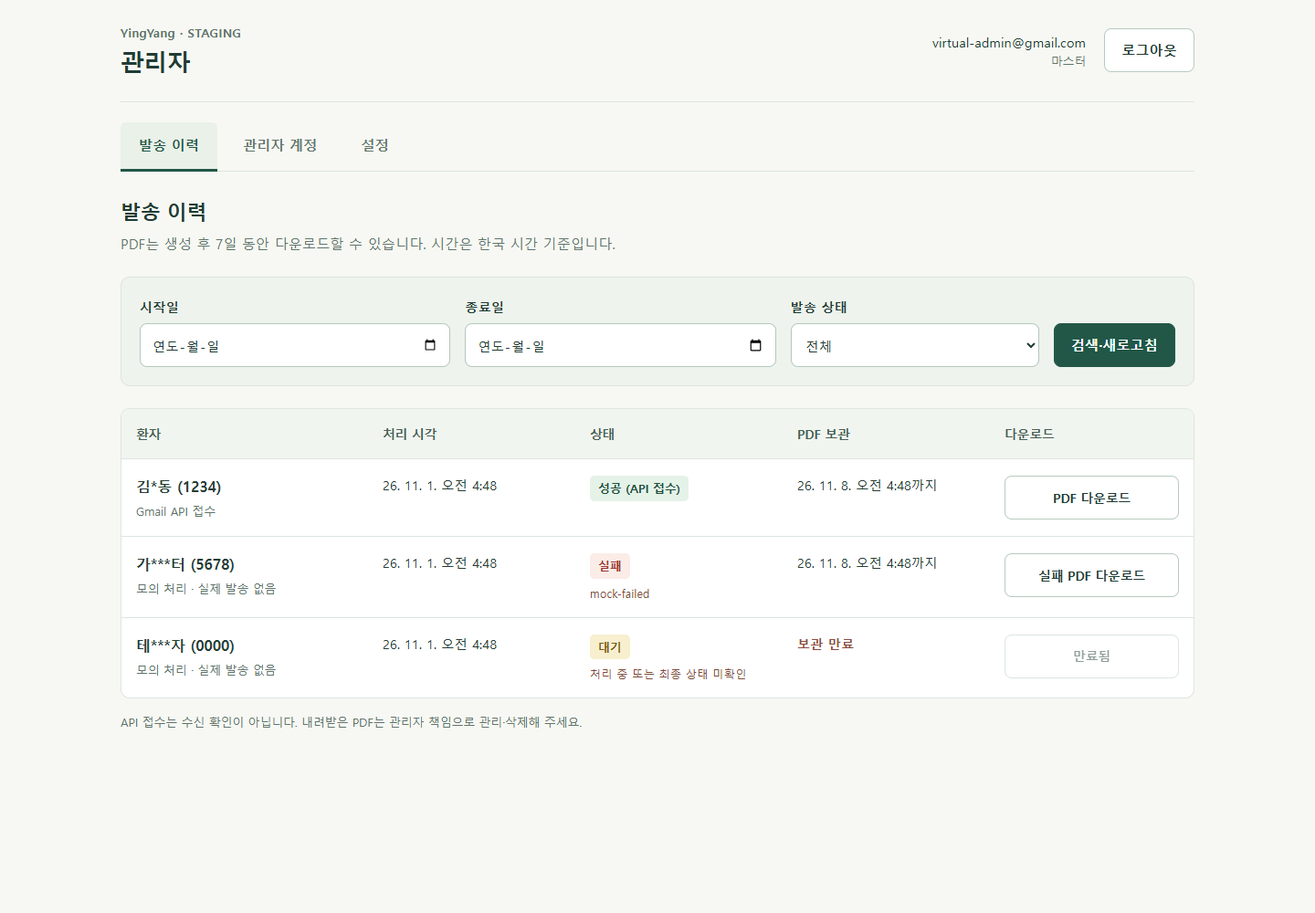
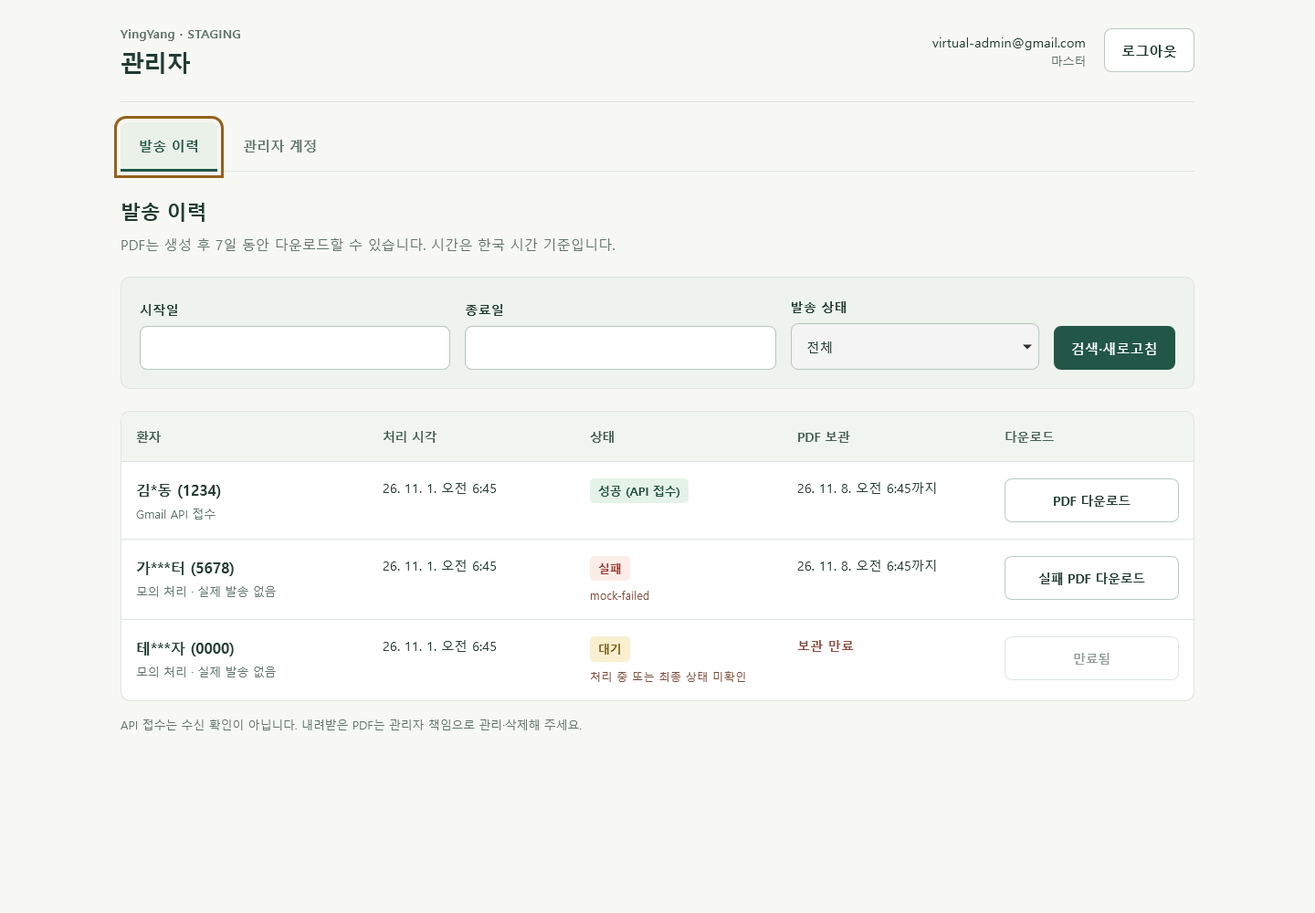
refactor: use Google-only administrator authentication (#7)

diff --git a/src/staging/AdminPortal.tsx b/src/staging/AdminPortal.tsx
@@ -1,14 +1,14 @@
 import { useCallback, useEffect, useRef, useState, type FormEvent, type KeyboardEvent } from 'react'
-import { GoogleAuthProvider, onAuthStateChanged, reauthenticateWithPopup, signInWithPopup, signInWithCustomToken, signOut, type Auth } from 'firebase/auth'
+import { GoogleAuthProvider, onAuthStateChanged, reauthenticateWithPopup, signInWithPopup, signOut, type Auth } from 'firebase/auth'
 import { httpsCallable, type Functions } from 'firebase/functions'
 import { AdminReports } from './AdminReports'
 import type { AdminQuery, AdminPage, AdminDownload } from './admin-contracts'
 import './admin.css'
 
-type Session = { role: 'none' | 'admin' | 'master'; local: boolean; mustChange: boolean; canBootstrap: boolean }
+type Session = { role: 'none' | 'admin' | 'master' }
 type Account = { email: string; active: boolean; bound: boolean }
-type Tab = 'reports' | 'accounts' | 'settings'
-const empty: Session = { role: 'none', local: false, mustChange: false, canBootstrap: false }
+type Tab = 'reports' | 'accounts'
+const empty: Session = { role: 'none' }
 function errorCode(error: unknown) {
  const code = error && typeof error === 'object' && 'code' in error ? String(error.code) : ''
  return /^(auth|functions)\/[a-z-]+$/.test(code) ? code : ''
@@ -17,9 +17,7 @@ export function AdminPortal({ auth, functions }: { auth: Auth; functions: Functi
  const [session, setSession] = useState(empty), [signed, setSigned] = useState(false), [checking, setChecking] = useState(true)
  const [account, setAccount] = useState(''), [busy, setBusy] = useState(false), [message, setMessage] = useState('')
  const [tab, setTab] = useState<Tab>('reports'), [needsReauth, setNeedsReauth] = useState(false)
- const [password, setPassword] = useState(''), [current, setCurrent] = useState(''), [next, setNext] = useState(''), [confirmation, setConfirmation] = useState('')
- const [email, setEmail] = useState(''), [temporary, setTemporary] = useState(''), [accounts, setAccounts] = useState<Account[]>([])
- const [resetReady, setResetReady] = useState(false)
+ const [email, setEmail] = useState(''), [accounts, setAccounts] = useState<Account[]>([])
  const pending = useRef<(() => Promise<void>) | null>(null), working = useRef(false)
  const call = useCallback(async <T,>(data: Record<string, unknown>) => (await httpsCallable<Record<string, unknown>, T>(functions, 'adminIdentity')(data)).data, [functions])
  useEffect(() => {
@@ -53,32 +51,15 @@ export function AdminPortal({ auth, functions }: { auth: Auth; functions: Functi
  const download = useCallback(async (id: string) => (await httpsCallable<{ id: string }, AdminDownload>(functions, 'downloadAdminReport')({ id })).data, [functions])
  const loadAccounts = useCallback(async () => { const result = await call<{ accounts: Account[] }>({ action: 'accounts', operation: 'list' }); setAccounts(result.accounts) }, [call])
  useEffect(() => {
-  if (tab === 'accounts' && session.role === 'master' && !session.mustChange) void run(loadAccounts, true)
- }, [tab, session.role, session.mustChange, loadAccounts])
- async function localReauth() {
-  const result = await call<{ token: string }>({ action: 'reauthenticate', currentPassword: current })
-  setCurrent(''); await signInWithCustomToken(auth, result.token)
- }
+  if (tab === 'accounts' && session.role === 'master') void run(loadAccounts, true)
+ }, [tab, session.role, loadAccounts])
  async function verifyAgain(event: FormEvent) {
   event.preventDefault()
   await run(async () => {
-   if (session.local) await localReauth()
-   else await reauthenticateWithPopup(auth.currentUser!, new GoogleAuthProvider())
+   await reauthenticateWithPopup(auth.currentUser!, new GoogleAuthProvider())
    setNeedsReauth(false)
    const work = pending.current; pending.current = null
    if (work) await work()
-  })
- }
- async function login(event: FormEvent) {
-  event.preventDefault()
-  await run(async () => { const result = await call<{ token: string }>({ action: 'login', username: 'admin', password }); setPassword(''); await signInWithCustomToken(auth, result.token) })
- }
- async function change(event: FormEvent) {
-  event.preventDefault()
-  if (next !== confirmation) { setMessage('새 비밀번호가 서로 다릅니다.'); return }
-  await run(async () => {
-   await localReauth(); await call({ action: 'change-password', newPassword: next })
-   setNext(''); setConfirmation(''); await signOut(auth); setMessage('비밀번호를 변경했습니다. 새 비밀번호로 로그인하세요.')
   })
  }
  async function manage(operation: string, fields: Record<string, unknown> = {}) {
@@ -86,26 +67,22 @@ export function AdminPortal({ auth, functions }: { auth: Auth; functions: Functi
   await loadAccounts()
  }
  function navigate(value: Tab) { setTab(value); setMessage(''); setNeedsReauth(false); pending.current = null }
- const tabs: { id: Tab; label: string }[] = [{ id: 'reports', label: '발송 이력' }, ...(session.role === 'master' ? [{ id: 'accounts' as const, label: '관리자 계정' }, { id: 'settings' as const, label: '설정' }] : [])]
+ const tabs: { id: Tab; label: string }[] = [{ id: 'reports', label: '발송 이력' }, ...(session.role === 'master' ? [{ id: 'accounts' as const, label: '관리자 계정' }] : [])]
  function tabKey(event: KeyboardEvent<HTMLButtonElement>, index: number) {
   const nextIndex = event.key === 'ArrowRight' ? (index + 1) % tabs.length : event.key === 'ArrowLeft' ? (index + tabs.length - 1) % tabs.length : event.key === 'Home' ? 0 : event.key === 'End' ? tabs.length - 1 : -1
   if (nextIndex < 0) return
   event.preventDefault(); navigate(tabs[nextIndex].id); document.getElementById('admin-tab-' + tabs[nextIndex].id)?.focus()
  }
  const notice = message && <p className="admin-notice" role="status">{message}</p>
- const localLogin = <form onSubmit={login} className="admin-form"><label>마스터 ID<input value="admin" readOnly autoComplete="username" /></label><label>마스터 비밀번호<input type="password" autoComplete="current-password" required maxLength={128} value={password} onChange={e => setPassword(e.target.value)} /></label><button disabled={busy}>마스터 로그인</button></form>
- const passwordForm = <form onSubmit={change} className="admin-form"><label>현재 비밀번호<input type="password" autoComplete="current-password" required value={current} onChange={e => setCurrent(e.target.value)} /></label><label>새 비밀번호 (12자 이상)<input type="password" autoComplete="new-password" minLength={12} maxLength={128} required value={next} onChange={e => setNext(e.target.value)} /></label><label>새 비밀번호 확인<input type="password" autoComplete="new-password" required value={confirmation} onChange={e => setConfirmation(e.target.value)} /></label><button disabled={busy}>비밀번호 변경</button></form>
- const logout = <button className="admin-button-secondary" disabled={busy} onClick={() => void run(async () => { await signOut(auth); setPassword(''); setCurrent(''); setNext(''); setConfirmation(''); setTemporary(''); setResetReady(false) })}>로그아웃</button>
- const top = <header className="admin-top"><div><span className="admin-kicker">YingYang · STAGING</span><h1>관리자</h1></div>{signed && <div className="admin-account"><div><span className="admin-account-name">{session.local ? '별도 마스터' : account}</span><span className="admin-role">{session.role === 'master' ? '마스터' : session.role === 'admin' ? '일반 관리자' : '권한 확인'}</span></div>{logout}</div>}</header>
+ const logout = <button className="admin-button-secondary" disabled={busy} onClick={() => void run(async () => { await signOut(auth) })}>로그아웃</button>
+ const top = <header className="admin-top"><div><span className="admin-kicker">YingYang · STAGING</span><h1>관리자</h1></div>{signed && <div className="admin-account"><div><span className="admin-account-name">{account}</span><span className="admin-role">{session.role === 'master' ? '마스터' : session.role === 'admin' ? '일반 관리자' : '권한 확인'}</span></div>{logout}</div>}</header>
  if (checking) return <div className="admin-app">{top}<main className="admin-focus"><p role="status">로그인 상태를 확인하고 있습니다…</p></main></div>
- if (!signed) return <div className="admin-app">{top}<main className="admin-focus"><div className="admin-login"><span className="admin-kicker">관리자 전용</span><h2>로그인</h2><p>승인된 Google 계정으로 로그인하세요.</p>{notice}<button className="admin-google" disabled={busy} onClick={() => void run(async () => { await signInWithPopup(auth, new GoogleAuthProvider()) })}>Google로 로그인</button><details><summary>별도 마스터 ID 로그인</summary>{localLogin}</details></div></main></div>
- if (session.mustChange) return <div className="admin-app">{top}<main className="admin-focus"><div className="admin-login"><span className="admin-kicker">첫 로그인 · 필수</span><h2>새 비밀번호 설정</h2><p role="alert">비밀번호를 변경해야 관리자 기능을 사용할 수 있습니다.</p>{notice}{passwordForm}</div></main></div>
+ if (!signed) return <div className="admin-app">{top}<main className="admin-focus"><div className="admin-login"><span className="admin-kicker">관리자 전용</span><h2>로그인</h2><p>승인된 Google 계정으로 로그인하세요.</p>{notice}<button className="admin-google" disabled={busy} onClick={() => void run(async () => { await signInWithPopup(auth, new GoogleAuthProvider()) })}>Google로 로그인</button></div></main></div>
  if (session.role === 'none') return <div className="admin-app">{top}<main className="admin-focus"><div className="admin-login"><h2>관리자 승인 대기</h2><p>현재 계정은 승인된 관리자가 아닙니다. 마스터에게 승인을 요청하세요.</p>{notice}<button disabled={busy} onClick={() => void run(async () => setSession(await call<Session>({ action: 'session' })))}>승인 상태 새로고침</button></div></main></div>
  return <div className="admin-app">{top}<nav className="admin-tabs" aria-label="관리자 메뉴" role="tablist">{tabs.map((item, index) => <button key={item.id} id={'admin-tab-' + item.id} role="tab" aria-selected={tab === item.id} aria-controls={'admin-panel-' + item.id} tabIndex={tab === item.id ? 0 : -1} onClick={() => navigate(item.id)} onKeyDown={e => tabKey(e, index)}>{item.label}</button>)}</nav><main className="admin-content">
   {notice}
-  {needsReauth && <form onSubmit={verifyAgain} className="admin-reauth" aria-label="계정 관리 본인 확인"><div><h2>본인 확인</h2><p>계정 관리 작업을 계속하려면 확인해 주세요.</p></div>{session.local && <label>현재 비밀번호<input type="password" autoComplete="current-password" required value={current} onChange={e => setCurrent(e.target.value)} /></label>}<button disabled={busy}>{session.local ? '본인 확인' : 'Google로 본인 확인'}</button></form>}
+  {needsReauth && <form onSubmit={verifyAgain} className="admin-reauth" aria-label="계정 관리 본인 확인"><div><h2>본인 확인</h2><p>계정 관리 작업을 계속하려면 확인해 주세요.</p></div><button disabled={busy}>Google로 본인 확인</button></form>}
   <section role="tabpanel" id="admin-panel-reports" aria-labelledby="admin-tab-reports" hidden={tab !== 'reports'} tabIndex={0}><AdminReports list={list} download={download} /></section>
-  {session.role === 'master' && <><section role="tabpanel" id="admin-panel-accounts" aria-labelledby="admin-tab-accounts" hidden={tab !== 'accounts'} tabIndex={0}><div className="admin-section-title"><h2>관리자 계정</h2><p>승인된 관리자는 발송 이력과 PDF를 확인할 수 있습니다.</p></div><form className="admin-add" onSubmit={e => { e.preventDefault(); void run(async () => { await manage('approve', { email: email.trim() }); setEmail('') }, true) }}><label>승인할 Gmail<input type="email" placeholder="example@gmail.com" required value={email} onChange={e => setEmail(e.target.value)} /></label><button disabled={busy || needsReauth}>관리자 추가</button></form><ul className="admin-member-list" aria-label="승인된 관리자">{accounts.map(item => <li key={item.email}><div><strong>{item.email}</strong><span className={'admin-state ' + (item.active ? 'state-success' : 'state-pending')}>{item.active ? '승인됨' : '권한 회수됨'}</span></div>{item.active && <button className="admin-button-secondary" disabled={busy || needsReauth} onClick={() => void run(async () => { await manage('revoke', { email: item.email }) }, true)} aria-label={item.email + ' 권한 회수'}>권한 회수</button>}</li>)}</ul>{!accounts.length && !busy && !needsReauth && <p className="admin-empty">추가된 관리자가 없습니다.</p>}</section>
-  <section role="tabpanel" id="admin-panel-settings" aria-labelledby="admin-tab-settings" hidden={tab !== 'settings'} tabIndex={0}><div className="admin-settings"><h2>{session.local ? '마스터 비밀번호 변경' : '별도 마스터 비밀번호 초기화'}</h2>{session.local ? passwordForm : <><p>별도 ID 계정에만 적용됩니다. Google 계정은 변경되지 않습니다.</p><form className="admin-form" onSubmit={e => { e.preventDefault(); void run(async () => { await call({ action: 'accounts', operation: 'reset-local', temporaryPassword: temporary }); setTemporary(''); setResetReady(true); setMessage('초기화했습니다. 별도 마스터로 전환해 비밀번호를 변경하세요.') }, true) }}><label>일회용 임시 비밀번호<input type="password" autoComplete="new-password" minLength={5} maxLength={128} required value={temporary} onChange={e => setTemporary(e.target.value)} /></label><button disabled={busy || needsReauth}>별도 마스터 초기화</button></form>{resetReady && <details><summary>초기화한 마스터로 전환</summary>{localLogin}</details>}</>}</div></section></>}
+  {session.role === 'master' && <><section role="tabpanel" id="admin-panel-accounts" aria-labelledby="admin-tab-accounts" hidden={tab !== 'accounts'} tabIndex={0}><div className="admin-section-title"><h2>관리자 계정</h2><p>승인된 관리자는 발송 이력과 PDF를 확인할 수 있습니다.</p></div><form className="admin-add" onSubmit={e => { e.preventDefault(); void run(async () => { await manage('approve', { email: email.trim() }); setEmail('') }, true) }}><label>승인할 Gmail<input type="email" placeholder="example@gmail.com" required value={email} onChange={e => setEmail(e.target.value)} /></label><button disabled={busy || needsReauth}>관리자 추가</button></form><ul className="admin-member-list" aria-label="승인된 관리자">{accounts.map(item => <li key={item.email}><div><strong>{item.email}</strong><span className={'admin-state ' + (item.active ? 'state-success' : 'state-pending')}>{item.active ? '승인됨' : '권한 회수됨'}</span></div>{item.active && <button className="admin-button-secondary" disabled={busy || needsReauth} onClick={() => void run(async () => { await manage('revoke', { email: item.email }) }, true)} aria-label={item.email + ' 권한 회수'}>권한 회수</button>}</li>)}</ul>{!accounts.length && !busy && !needsReauth && <p className="admin-empty">추가된 관리자가 없습니다.</p>}</section></>}
  </main></div>
 }

diff --git a/functions/src/admin-identity.ts b/functions/src/admin-identity.ts
@@ -1,74 +1,43 @@
-import { randomBytes, randomUUID, scrypt as scryptCallback, timingSafeEqual, createHash, createHmac } from 'node:crypto'
-import { promisify } from 'node:util'
+import { randomUUID, createHash, createHmac } from 'node:crypto'
 import { runtimeToken } from './mail-state'
 export const identityBucket = 'yingyangtest-admin-identity-495270334718'
-const scrypt = promisify(scryptCallback)
 export type StoredIdentity = { value: unknown; generation: string }
 export interface IdentityStore { read(name: string): Promise<StoredIdentity | null>; write(name: string,value: unknown,generation: string): Promise<void>; list(prefix: string): Promise<unknown[]> }
 export class IdentityConflict extends Error {}
 export class IdentityError extends Error { constructor(public readonly code: 'permission-denied'|'failed-precondition'|'invalid-argument'|'resource-exhausted'|'unavailable') { super(code) } }
 export type IdentityContext = { project?: string; app?: boolean; uid?: string; provider?: string; email?: string; emailVerified?: boolean; authTime?: number; claims?: Record<string,unknown> }
 export type Role = 'master'|'admin'|'none'
-export type Session = {role:Role;local:boolean;mustChange:boolean;canBootstrap:boolean}
-export type Config = {googleEmail:string;googleUid?:string;localUid:string;setupOperatorUid:string}
-export type LocalAccount = {salt:string;hash:string;version:number;mustChange:boolean;bootstrapConsumed:boolean;resetOwnerUid:string;failures:number;lockedUntil:number;sessionId?:string;reauthNonce?:string;reauthAt?:number}
+export type Session = {role:Role}
+export type Config = {googleEmail:string;googleUid?:string}
 export type Member = {email:string;uid?:string;active:boolean;createdAt:number;updatedAt:number}
-export interface IdentityAdapter { sign(uid:string,claims:Record<string,unknown>):Promise<string>; revoke(uid:string):Promise<void>; ensureGoogleUser(email:string):Promise<string>; googleUser(uid:string):Promise<{email?:string;verified:boolean;google:boolean;disabled:boolean}> }
-export async function passwordHash(password:string,salt=randomBytes(16).toString('hex')) { const hash=await scrypt(password,salt,64) as Buffer;return {salt,hash:hash.toString('hex')} }
-async function matches(password:string,record:LocalAccount) { if(!/^[a-f0-9]{128}$/.test(record.hash)||!/^[a-f0-9]{32}$/.test(record.salt))throw new IdentityError('unavailable');const value=await passwordHash(password,record.salt);return timingSafeEqual(Buffer.from(value.hash,'hex'),Buffer.from(record.hash,'hex')) }
+export interface IdentityAdapter { revoke(uid:string):Promise<void>; ensureGoogleUser(email:string):Promise<string>; googleUser(uid:string):Promise<{email?:string;verified:boolean;google:boolean;disabled:boolean}> }
 function gmail(value:unknown):string { if(typeof value!=='string'||value.length>254||!/^[-a-zA-Z0-9._%+]+@gmail\.com$/.test(value.trim()))throw new IdentityError('invalid-argument');return value.trim().toLowerCase() }
 function body(raw:unknown,keys:string[]) { if(!raw||typeof raw!=='object'||Array.isArray(raw)||Object.keys(raw).sort().join(',')!==keys.sort().join(','))throw new IdentityError('invalid-argument');return raw as Record<string,unknown> }
-function password(value:unknown,min=1) { if(typeof value!=='string'||value.length<min||value.length>128)throw new IdentityError('invalid-argument');return value }
 const memberKey=(email:string)=>'members/'+createHash('sha256').update(email).digest('hex')+'.json'
 export class AdminIdentity {
  constructor(private store:IdentityStore,private adapter:IdentityAdapter,private key:string,private clock=Date.now){}
  private gate(c:IdentityContext){if(c.project!=='yingyangtest'||!c.app)throw new IdentityError('permission-denied')}
- private async config(){const r=await this.store.read('config.json'),v=r?.value as Config;if(!r||!v?.localUid||!v.setupOperatorUid||!v.googleEmail)throw new IdentityError('unavailable');return {value:v,generation:r.generation}}
- private async local(){const r=await this.store.read('local-master.json'),v=r?.value as LocalAccount;if(!r||!Number.isSafeInteger(v?.version)||v.version<1||typeof v.mustChange!=='boolean')throw new IdentityError('unavailable');return {value:v,generation:r.generation}}
+ private async config(){const r=await this.store.read('config.json'),v=r?.value as Config;if(!r||!v?.googleEmail)throw new IdentityError('unavailable');return {value:v,generation:r.generation}}
  private async audit(c:IdentityContext,action:string,outcome:string,email?:string){await this.store.write('audit/'+randomUUID()+'.json',{at:this.clock(),actor:c.uid?createHmac('sha256',this.key).update(c.uid).digest('hex'):'anonymous',action,outcome,...(email?{subject:createHmac('sha256',this.key).update(email).digest('hex')}:{})},'0')}
  private recent(c:IdentityContext){if(!Number.isSafeInteger(c.authTime)||this.clock()-c.authTime!*1000>300000||c.authTime!*1000>this.clock()+60000)throw new IdentityError('failed-precondition')}
  async session(c:IdentityContext):Promise<Session>{
-  this.gate(c);const cfg=await this.config();const none:Session={role:'none',local:false,mustChange:false,canBootstrap:c.uid===cfg.value.setupOperatorUid&&c.claims?.stagingTester===true}
+  this.gate(c);const cfg=await this.config();const none:Session={role:'none'}
   if(!c.uid)return none
-  if(c.provider==='custom'&&c.uid===cfg.value.localUid){const r=await this.local();if(c.claims?.localVersion!==r.value.version||typeof c.claims.localSession!=='string'||r.value.mustChange&&c.claims.localSession!==r.value.sessionId)throw new IdentityError('permission-denied');return {role:'master',local:true,mustChange:r.value.mustChange,canBootstrap:false}}
   if(c.provider!=='google.com'||c.emailVerified!==true||!c.email)return none
   const u=await this.adapter.googleUser(c.uid);if(u.disabled||!u.verified||!u.google||u.email?.toLowerCase()!==c.email.toLowerCase())throw new IdentityError('permission-denied')
   const email=gmail(c.email)
   if(email===cfg.value.googleEmail.toLowerCase()){
    if(cfg.value.googleUid&&cfg.value.googleUid!==c.uid)throw new IdentityError('permission-denied')
    if(!cfg.value.googleUid){await this.audit(c,'pin-google-master','requested');try{await this.store.write('config.json',{...cfg.value,googleUid:c.uid},cfg.generation)}catch(e){if(!(e instanceof IdentityConflict))throw e;const latest=await this.config();if(latest.value.googleUid!==c.uid)throw new IdentityError('permission-denied')}}
-   return {role:'master',local:false,mustChange:false,canBootstrap:false}
+   return {role:'master'}
   }
   const record=await this.store.read(memberKey(email)),m=record?.value as Member
   if(!record||!m?.active||m.email!==email)return none
   if(m.uid&&m.uid!==c.uid)throw new IdentityError('permission-denied')
   if(!m.uid){try{await this.store.write(memberKey(email),{...m,uid:c.uid,updatedAt:this.clock()},record.generation)}catch(e){if(!(e instanceof IdentityConflict))throw e;const latest=(await this.store.read(memberKey(email)))?.value as Member;if(!latest?.active||latest.uid!==c.uid)throw new IdentityError('permission-denied')}}
-  return {role:'admin',local:false,mustChange:false,canBootstrap:false}
+  return {role:'admin'}
  }
- async authorize(c:IdentityContext,master=false){const s=await this.session(c);if(s.role==='none'||master&&s.role!=='master')throw new IdentityError('permission-denied');if(s.mustChange)throw new IdentityError('failed-precondition');return s}
- async login(raw:unknown,c:IdentityContext){
-  this.gate(c);const d=body(raw,['username','password']),pass=password(d.password),cfg=await this.config(),r=await this.local()
-  if(d.username!=='admin')throw new IdentityError('permission-denied')
-  if(r.value.mustChange&&(c.uid!==r.value.resetOwnerUid||r.value.bootstrapConsumed))throw new IdentityError('permission-denied')
-  if(r.value.lockedUntil>this.clock())throw new IdentityError('resource-exhausted')
-  if(!await matches(pass,r.value)){const failures=r.value.failures+1;await this.store.write('local-master.json',{...r.value,failures,lockedUntil:failures>=5?this.clock()+900000:0},r.generation);await this.audit(c,'local-login','denied');throw new IdentityError('permission-denied')}
-  const sid=randomUUID(),next={...r.value,failures:0,lockedUntil:0,...(r.value.mustChange?{bootstrapConsumed:true,sessionId:sid}:{})}
-  await this.audit(c,'local-login','allowed');await this.store.write('local-master.json',next,r.generation)
-  const token=await this.adapter.sign(cfg.value.localUid,{localVersion:next.version,localSession:sid})
-  return {token,mustChange:next.mustChange}
- }
- async reauthenticate(raw:unknown,c:IdentityContext){
-  this.gate(c);const d=body(raw,['currentPassword']),s=await this.session(c);if(s.role!=='master'||!s.local)throw new IdentityError('permission-denied')
-  const r=await this.local();if(r.value.lockedUntil>this.clock())throw new IdentityError('resource-exhausted')
-  if(!await matches(password(d.currentPassword),r.value)){const failures=r.value.failures+1;await this.store.write('local-master.json',{...r.value,failures,lockedUntil:failures>=5?this.clock()+900000:0},r.generation);await this.audit(c,'local-reauth','denied');throw new IdentityError('permission-denied')}
-  const nonce=randomUUID(),now=this.clock();await this.audit(c,'local-reauth','allowed');await this.store.write('local-master.json',{...r.value,reauthNonce:nonce,reauthAt:now,failures:0,lockedUntil:0},r.generation)
-  return {token:await this.adapter.sign(c.uid!,{localVersion:r.value.version,localSession:c.claims!.localSession,localReauth:nonce})}
- }
- async changePassword(raw:unknown,c:IdentityContext){
-  this.gate(c);const d=body(raw,['newPassword']),pass=password(d.newPassword,12),s=await this.session(c);if(s.role!=='master'||!s.local)throw new IdentityError('permission-denied');this.recent(c)
-  const r=await this.local();if(!r.value.reauthNonce||r.value.reauthNonce!==c.claims?.localReauth||this.clock()-(r.value.reauthAt||0)>300000||await matches(pass,r.value))throw new IdentityError('failed-precondition')
-  const hash=await passwordHash(pass);await this.audit(c,'local-password-change','requested');await this.store.write('local-master.json',{...hash,version:r.value.version+1,mustChange:false,bootstrapConsumed:true,resetOwnerUid:'',failures:0,lockedUntil:0},r.generation);await this.adapter.revoke(c.uid!);await this.audit(c,'local-password-change','completed');return {relogin:true}
- }
+ async authorize(c:IdentityContext,master=false){const s=await this.session(c);if(s.role==='none'||master&&s.role!=='master')throw new IdentityError('permission-denied');return s}
  async accounts(raw:unknown,c:IdentityContext){
   await this.authorize(c,true);this.recent(c)
   const d=raw as Record<string,unknown>;if(!d||typeof d!=='object'||Array.isArray(d))throw new IdentityError('invalid-argument')
@@ -80,16 +49,12 @@ export class AdminIdentity {
    else{if(!prior)throw new IdentityError('invalid-argument');await this.store.write(name,{email,active:false,updatedAt:this.clock()},prior.generation);if(m.uid)await this.adapter.revoke(m.uid)}
    await this.audit(c,'account-'+d.action,'completed',email);return {ok:true}
   }
-  if(d.action==='reset-local'){
-   body(raw,['action','temporaryPassword']);const session=await this.session(c);if(session.local)throw new IdentityError('permission-denied')
-   const r=await this.local(),cfg=await this.config(),hash=await passwordHash(password(d.temporaryPassword,5));await this.audit(c,'local-reset','requested');await this.store.write('local-master.json',{...hash,version:r.value.version+1,mustChange:true,bootstrapConsumed:false,resetOwnerUid:c.uid!,failures:0,lockedUntil:0},r.generation);await this.adapter.revoke(cfg.value.localUid);await this.audit(c,'local-reset','completed');return {ok:true}
-  }
   throw new IdentityError('invalid-argument')
  }
 }
 export class GcsIdentityStore implements IdentityStore {
  constructor(private token=runtimeToken){}
- private url(name:string){if(!/^(config\.json|local-master\.json|members\/[a-f0-9]{64}\.json|audit\/[a-f0-9-]+\.json)$/.test(name))throw Error('Invalid identity path');return 'https://storage.googleapis.com/storage/v1/b/'+identityBucket+'/o/'+encodeURIComponent(name)}
+ private url(name:string){if(!/^(config\.json|members\/[a-f0-9]{64}\.json|audit\/[a-f0-9-]+\.json)$/.test(name))throw Error('Invalid identity path');return 'https://storage.googleapis.com/storage/v1/b/'+identityBucket+'/o/'+encodeURIComponent(name)}
  private async request(url:string,init:RequestInit={}){return fetch(url,{...init,headers:{authorization:'Bearer '+await this.token(),...init.headers},signal:AbortSignal.timeout(8000)})}
  async read(name:string){const r=await this.request(this.url(name)+'?alt=media');if(r.status===404)return null;if(!r.ok)throw Error('Identity read unavailable');const generation=r.headers.get('x-goog-generation');if(!generation)throw Error('Missing identity version');return {value:await r.json(),generation}}
  async write(name:string,value:unknown,generation:string){this.url(name);const r=await this.request('https://storage.googleapis.com/upload/storage/v1/b/'+identityBucket+'/o?uploadType=media&name='+encodeURIComponent(name)+'&ifGenerationMatch='+generation,{method:'POST',headers:{'content-type':'application/json'},body:JSON.stringify(value)});if(r.status===412)throw new IdentityConflict();if(!r.ok)throw Error('Identity write unavailable');await r.arrayBuffer()}

diff --git a/src/staging/AdminPortal.test.tsx b/src/staging/AdminPortal.test.tsx
@@ -30,6 +30,8 @@ it('signed out page has login only, no report or tabs', async () => {
  expect(screen.queryByText('최초 설정 담당자 인증')).toBeNull()
  expect(screen.queryByLabelText('설정 담당자 이메일')).toBeNull()
  expect(screen.queryByLabelText('설정 담당자 비밀번호')).toBeNull()
+ expect(document.querySelector('input[type=password]')).toBeNull()
+ expect(screen.queryByText('별도 마스터 ID 로그인')).toBeNull()
 })
 it('unapproved signed-in account shows approval state without duplicate login', async () => {
  show(); await screen.findByRole('heading', { name: '관리자 승인 대기' })
@@ -52,6 +54,8 @@ it('signed-in ordinary admin has only history tab, no login/password/account too
 })
 it('master tabs switch with arrows/Home/End and load accounts automatically', async () => {
  show({ role: 'master' }); await screen.findByText('synthetic report')
+ expect(screen.getAllByRole('tab').map(x=>x.textContent)).toEqual(['발송 이력','관리자 계정'])
+ expect(document.querySelector('input[type=password]')).toBeNull()
  const history = screen.getByRole('tab', { name: '발송 이력' })
  expect(history.getAttribute('aria-selected')).toBe('true')
  fireEvent.keyDown(history, { key: 'ArrowRight' })
@@ -59,7 +63,7 @@ it('master tabs switch with arrows/Home/End and load accounts automatically', as
  expect(document.activeElement).toBe(screen.getByRole('tab', { name: '관리자 계정' }))
  await vi.waitFor(() => expect(mocks.call).toHaveBeenCalledWith({ action: 'accounts', operation: 'list' }))
  fireEvent.keyDown(document.activeElement!, { key: 'End' })
- expect(screen.getByRole('heading', { name: '별도 마스터 비밀번호 초기화' })).toBeTruthy()
+ expect(screen.getByRole('tab', { name: '관리자 계정' }).getAttribute('aria-selected')).toBe('true')
  fireEvent.keyDown(document.activeElement!, { key: 'Home' })
  expect(history.getAttribute('aria-selected')).toBe('true')
  expect(screen.queryByRole('button', { name: 'Google로 로그인' })).toBeNull()
@@ -89,17 +93,6 @@ it('expired sensitive action offers contextual reauth, then retries the pending 
  await screen.findByText('추가된 관리자가 없습니다.')
  expect(mocks.reauth).toHaveBeenCalledTimes(1)
  expect(screen.queryByRole('form', { name: '계정 관리 본인 확인' })).toBeNull()
-})
-it('forced change is a focused screen with no history or tabs', async () => {
- show({ role: 'master', local: true, mustChange: true }); await screen.findByRole('alert')
- expect(screen.queryByText('synthetic report')).toBeNull(); expect(screen.queryByRole('tab')).toBeNull()
- expect(screen.queryByRole('button', { name: 'Google로 로그인' })).toBeNull()
- fireEvent.change(screen.getByLabelText('현재 비밀번호'), { target: { value: 'virtual-current' } })
- fireEvent.change(screen.getByLabelText('새 비밀번호 (12자 이상)'), { target: { value: 'virtual-new-password' } })
- fireEvent.change(screen.getByLabelText('새 비밀번호 확인'), { target: { value: 'different-password' } })
- fireEvent.click(screen.getByRole('button', { name: '비밀번호 변경' }))
- await screen.findByText('새 비밀번호가 서로 다릅니다.')
- expect(mocks.call.mock.calls.every(([x]) => x.action === 'session')).toBe(true)
 })
 it('unknown Google account and popup cancellation show short safe messages', async () => {
  mocks.signed = false; mocks.google.mockRejectedValueOnce({ code: 'auth/admin-restricted-operation', message: 'private-detail' }).mockRejectedValueOnce({ code: 'auth/popup-closed-by-user' })

diff --git a/functions/src/index.ts b/functions/src/index.ts
@@ -105,7 +105,6 @@ export const submitMockReport = onCall(callableOptions, async request => {
 const firebaseAdmin = getAuth(getApps()[0] || initializeApp({projectId:'yingyangtest'}))
 function identity() {
  return new AdminIdentity(new GcsIdentityStore(), {
-  sign: (uid,claims)=>firebaseAdmin.createCustomToken(uid,claims),
   revoke: uid=>firebaseAdmin.revokeRefreshTokens(uid),
   ensureGoogleUser: email=>provisionGoogleAdmin(firebaseAdmin,email),
   googleUser: async uid=>{const u=await firebaseAdmin.getUser(uid);return {email:u.email,verified:u.emailVerified,google:u.providerData.some(p=>p.providerId==='google.com'),disabled:u.disabled}},
@@ -126,9 +125,6 @@ export const adminIdentity = onCall(callableOptions,async request=>{
   if(!raw||typeof raw!=='object'||Array.isArray(raw)||typeof raw.action!=='string')throw new IdentityError('invalid-argument')
   const {action,...data}=raw,c=identityContext(request),service=identity()
   if(action==='session'&&Object.keys(data).length===0)return await service.session(c)
-  if(action==='login')return await service.login(data,c)
-  if(action==='reauthenticate')return await service.reauthenticate(data,c)
-  if(action==='change-password')return await service.changePassword(data,c)
   if(action==='accounts'){const {operation,...fields}=data;return await service.accounts({...fields,action:operation},c)}
   throw new IdentityError('invalid-argument')
  }catch(error){

diff --git a/docs/verification.md b/docs/verification.md
@@ -1,5 +1,15 @@
 # YingYang v1 검증 기록
 
+## 관리자 Google 전용 전환 — 2026-11-01
+
+- 사용자 승인으로 별도 마스터 ID·비밀번호·변경·초기화·커스텀 토큰 경로와 설정 탭을 제거했다. 고정 Google 웹마스터와 승인 Google 관리자만 서버 역할을 얻는다. 과거 로컬 토큰도 거부한다.
+- **UI69 + 배포 보호2 + 서버52 =123개 통과.** npm test, 일반 build, build:staging, functions:build, functions:test 성공. 폐기한 비밀번호 테스트는 Google 전용/레거시 경로 거부 검증으로 대체했다.
+- 기존 Google 웹마스터가 활성·검증·Google 연결·고정 UID 상태임을 확인한 뒤 Staging 별도 마스터 Auth 사용자와 비밀번호 해시를 삭제했다. 초기 담당자/로컬 UID 설정 및 불필요한 signBlob 역할 바인딩 제거. 승인 목록·Google 웹마스터는 유지했다.
+- 로컬 가상 역할로 Chrome/WebKit에서 로그인 전 비밀번호 필드0, 마스터2탭/일반1탭, 키보드 조작과320/390/768/820/1024/1440px 넘침 없음 확인. 공개 미리보기 이미지도 현재2탭으로 갱신.
+- 실제 Staging 관리자 로그인 페이지200, Chrome/WebKit에서 Google 버튼만 표시·비밀번호/접힌 별도 로그인 경로0 확인. Staging HTML/JS200·빌드 해시 일치·noindex/no-store 및 운영 HTML 기준 해시 일치 확인.
+- 실제 테스트 계정으로 Auth/App Check를 거치는 서버 검수는 App Check 헤더 미발급401 UNAUTHENTICATED로 중단됐다. 이번 변경 후 실제 Google 재로그인·로그/PDF 조회까지 자동 검증했다고 보고하지 않는다. 서버 Google 권한·승인/회수·삭제 API 거부는 자동 테스트 결과이다. 사용자는 앞서 실제 일반 Google 계정의 승인·사용·회수가 정상이라고 확인했다.
+- Staging Hosting/Functions만 배포. 운영 전환 중지·main 미변경·실제 메일0·발송 창 미개방 유지. 기존 검사 테스트 계정은 관리자와 별도이므로 유지했다.
+
 ## #7 관리자 UI 전면 정리 — 2026-11-01
 
 - 최신 요청 [6548234546](https://github.com/aeranixia/YingYang/issues/7#issuecomment-6548234546) 반영. 로그인 전·후·승인 대기·필수 비밀번호 변경 화면을 분리하고, 로그인 후에는 로그인 폼/중복 인증 안내가 나타나지 않는다.

diff --git a/docs/issue-7-admin-reports.md b/docs/issue-7-admin-reports.md
@@ -4,6 +4,14 @@
 
 ## 접근 방법
 
+### 최신 정책: Google 로그인으로 통일 — 2026-11-01
+
+사용자 최종 지시에 따라 마스터·일반 관리자 모두 Google 전용으로 통일했다. 아래 별도 마스터 비밀번호/초기화 관련 설명은 과거 이력이며 현재 사용하지 않는다. 로그인 화면의 ID/비밀번호 폼, 설정 탭, 변경·초기화 API, 해시 처리, 커스텀 토큰 발급 경로를 제거했다. 기존 커스텀/이메일 비밀번호 토큰은 관리자 역할을 얻지 못한다.
+
+고정 Google 웹마스터의 검증된 이메일·UID를 확인한 뒤 Staging의 별도 마스터 Auth 사용자와 local-master.json 해시를 삭제하고, config의 초기 담당자/별도 UID 항목을 제거했다. 불필요한 실행 계정 자기 자신에 대한 토큰 서명 역할 바인딩도 회수했다. 승인 관리자 목록·Google UID·감사/7일 PDF·메일 설정은 유지했다. 기존 검사 테스트 계정 로그인은 관리자 로그인이 아니며 별도로 유지한다.
+
+현재 마스터는 발송 이력/관리자 계정 2탭, 일반 관리자는 발송 이력 1탭이다. 계정 관리의 최근 본인 확인도 Google 재인증만 사용한다. 사용자는 실제 일반 Google 계정의 승인·사용·회수가 정상임을 확인했다. 이번 변경 후 해당 사용자 Google 세션을 에이전트가 대신 재로그인한 것으로 표시하지 않는다. 운영 전환은 중지 상태이며 Staging만 배포한다.
+
 ### 초기 설정 담당자 화면 제거 — 2026-11-01
 
 별도 설정 담당자 계정을 생성하는 사용자 기능은 없으며, 이전 화면은 기존 Staging 테스트 계정을 이용한 일회용 초기 설정 경로였다. 고정 Google 웹마스터가 설정 탭에서 별도 마스터를 초기화하고 전환할 수 있어 불필요한 ‘최초 설정 담당자 인증’ 폼과 초기 담당자 전용 화면을 제거했다. Google 로그인·일반 관리자 승인/회수·기존 별도 마스터 로그인·비밀번호 변경·초기화는 유지한다. 서버의 기존 계정/설정 기록은 삭제하지 않았다. 운영 전환 중지 상태를 유지하고 Staging UI에만 반영한다.

diff --git a/README.md b/README.md
@@ -52,7 +52,7 @@ npm run build
 
 ## 코드와 데이터
 
-Staging 관리자 기능은 [#7 관리자 안내](docs/issue-7-admin-reports.md)에 있습니다. `/admin`은 Google 로그인·서버 승인/UID 연결·Auth·App Check를 확인합니다. 별도 ID·비밀번호는 마스터만 사용하며 일회용 초기 로그인과 강제 변경을 적용합니다. 일반 관리자도 가상 PDF를7일 이내에 조회할 수 있습니다. 실제 발송 창과 운영 사이트는 별도이며 #4 운영 배포 작업은 현재 보류 상태입니다.
+Staging 관리자 기능은 [#7 관리자 안내](docs/issue-7-admin-reports.md)에 있습니다. `/admin`은 마스터·일반 관리자 모두 Google 로그인만 사용하며 서버 승인/UID 연결·Auth·App Check를 확인합니다. 별도 ID·비밀번호 로그인·초기화는 제거했습니다. 일반 관리자도 가상 PDF를7일 이내에 조회할 수 있습니다. 실제 발송 창과 운영 사이트는 별도이며 운영 전환은 현재 사용자 요청으로 중지 상태입니다.
 
 - `src/questions.ts`: 사진에서 옮긴 문항, 강조 구절, 분류표
 - `src/engine.ts`: 상태 전이, 검증, 저장·복구, 순수 집계 함수

diff --git a/CHANGELOG.md b/CHANGELOG.md
@@ -1,5 +1,11 @@
 # 변경 기록
 
+## v1.2 개발 중 — 관리자 Google 로그인 통일 / 2026-11-01
+
+- 별도 마스터 ID/비밀번호 로그인·변경·초기화·커스텀 토큰 경로와 설정 탭 제거. 고정 Google 웹마스터 및 승인된 일반 관리자만 접근.
+- Staging의 기존 로컬 마스터 Auth 계정·비밀번호 해시·초기 담당자 설정 삭제, 불필요한 토큰 서명 권한 회수. Google 웹마스터·승인 목록·PDF7일 유지.
+- UI69+배포 보호2+서버52=123개 통과, 일반/Staging/Functions 빌드 성공. Chrome/WebKit 가상 역할·320~1440px 확인. 실제 테스트 계정 자동화는 App Check 토큰 미발급401로 서버 검수 미완료. 운영 전환 중지 유지.
+
 ## v1.2 개발 중 — 불필요한 초기 설정 인증 제거 / 2026-11-01
 
 - 관리자 로그인 화면의 ‘최초 설정 담당자 인증’ 폼과 담당자 전용 초기 화면 제거. 별도 계정 생성 기능처럼 보이던 혼동을 해소하고 Google 웹마스터의 기존 마스터 초기화 경로 유지.
